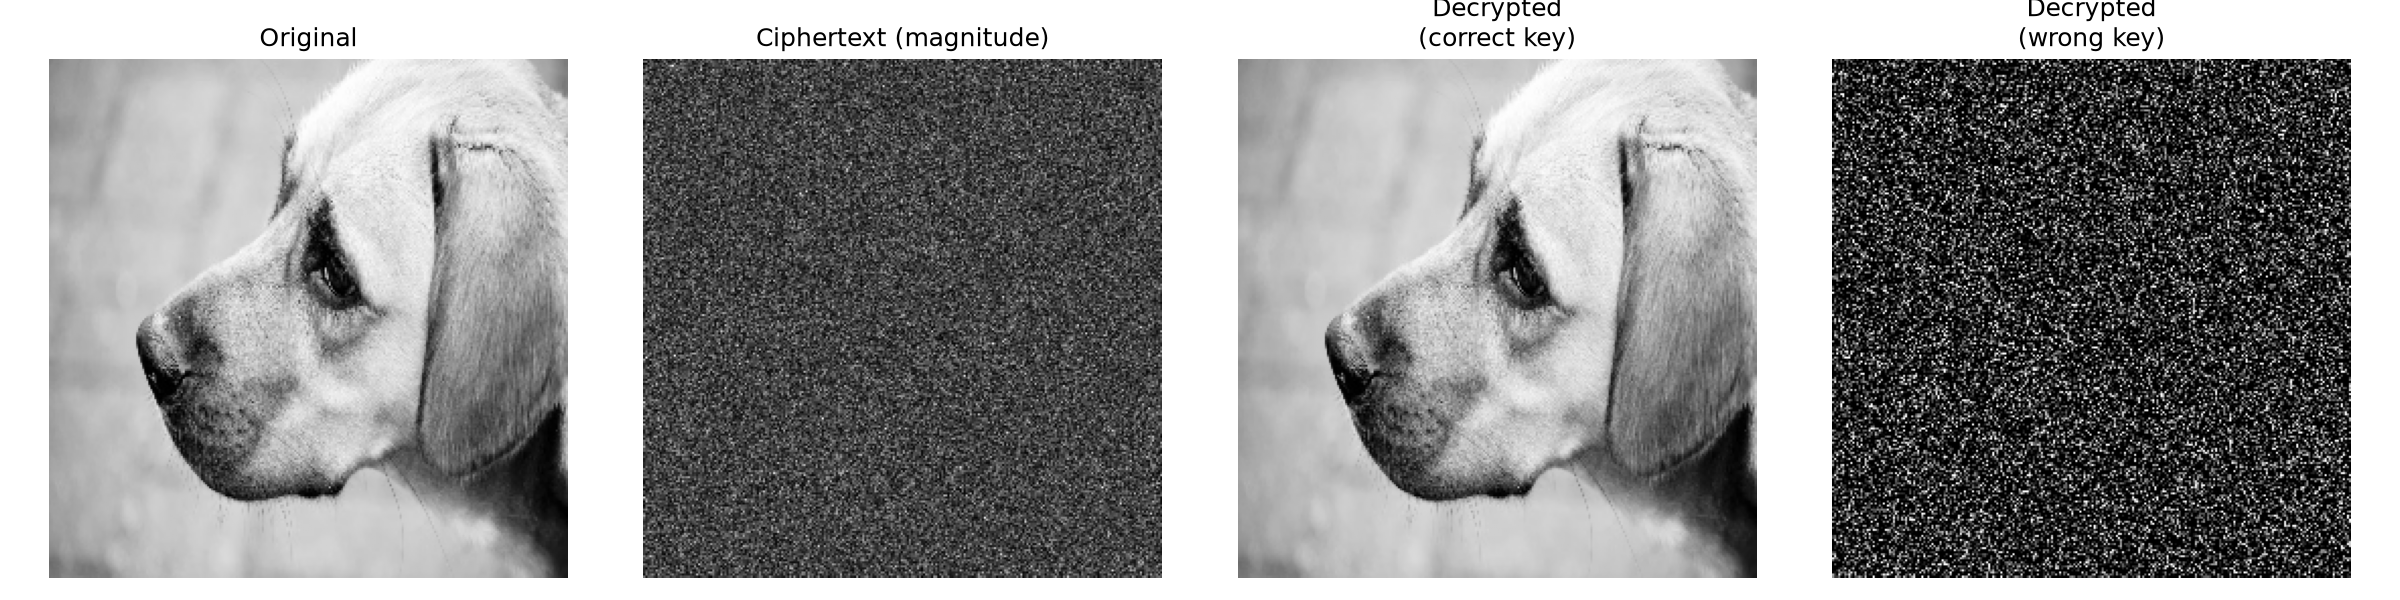
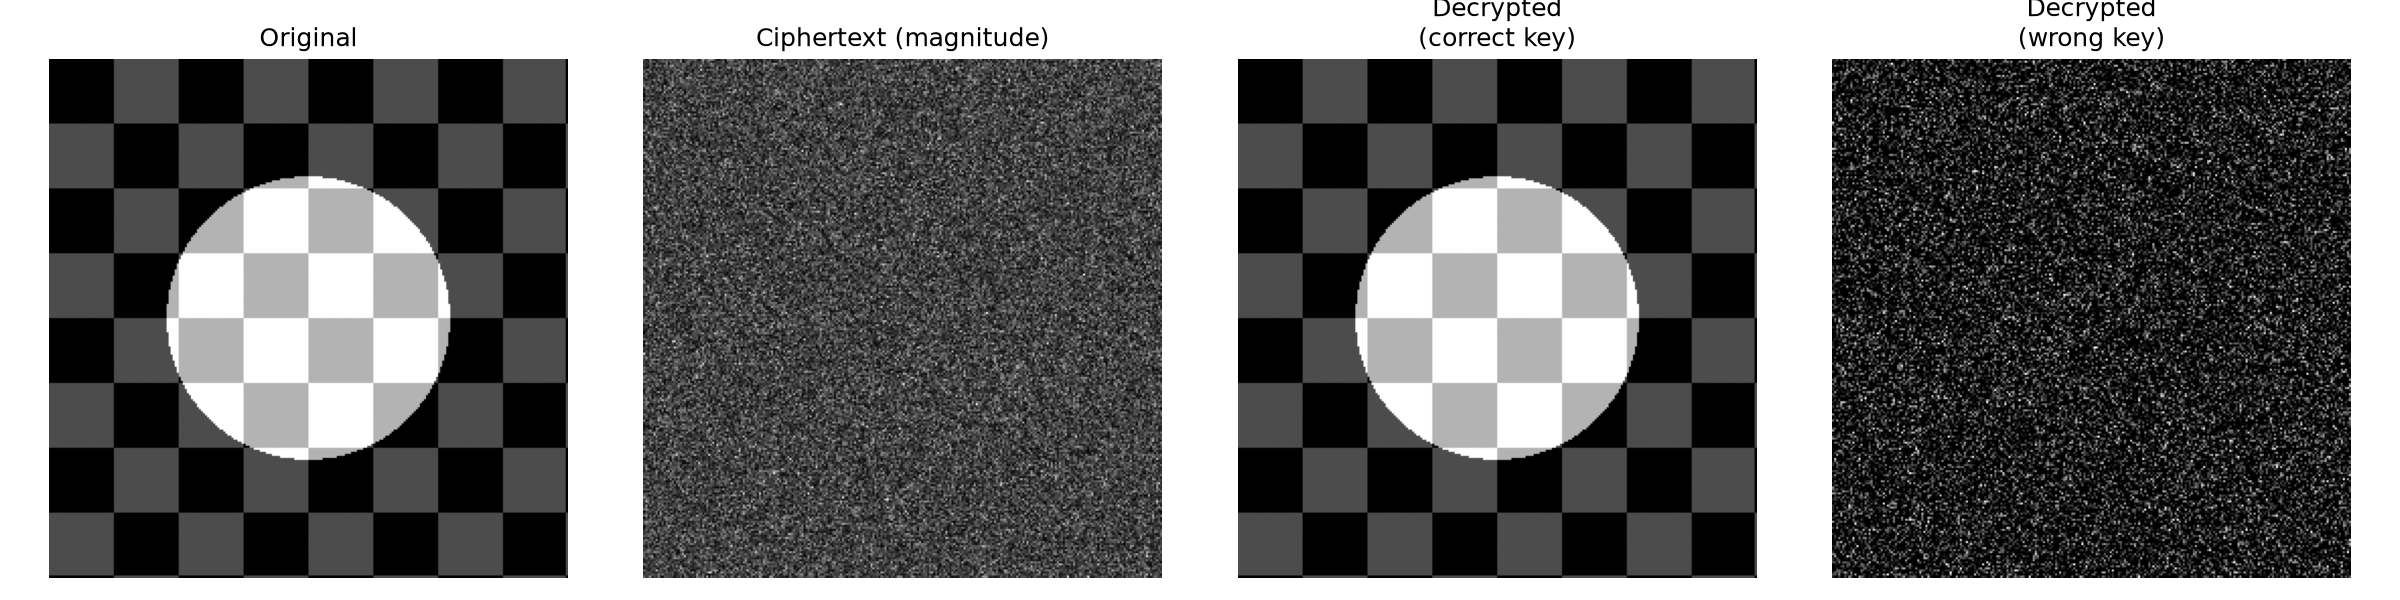
gui working, both options kept for keys..ui needs reformatoin maybe later

diff --git a/view/encrypt_view.py b/view/encrypt_view.py
@@ -1,0 +1,135 @@
+import streamlit as st
+import numpy as np
+import cv2
+import io
+import matplotlib.pyplot as plt
+
+from core.drpe import generate_random_phase_mask, encrypt
+from core.utils import ciphertext_magnitude_for_display, to_uint8
+
+def plot_behind_the_scenes(image_norm, key1, cipher):
+    fig, axes = plt.subplots(1, 3, figsize=(15, 4))
+    
+    axes[0].imshow(np.angle(key1), cmap='hsv')
+    axes[0].set_title("Matrix: Key 1 Phase Angles")
+    axes[0].axis("off")
+    
+    F = np.fft.fftshift(np.fft.fft2(image_norm))
+    axes[1].imshow(20 * np.log(np.abs(F) + 1), cmap='gray')
+    axes[1].set_title("Original Frequency Spectrum")
+    axes[1].axis("off")
+    
+    C = np.fft.fftshift(np.fft.fft2(cipher))
+    axes[2].imshow(20 * np.log(np.abs(C) + 1), cmap='gray')
+    axes[2].set_title("Ciphertext Frequency Spectrum")
+    axes[2].axis("off")
+    
+    return fig
+
+def render_encrypt_tab():
+    st.header("1. Encrypt an Image")
+    uploaded_img = st.file_uploader("Upload Image (JPG/PNG)", type=['png', 'jpg', 'jpeg'])
+    
+    # Initialize the session state for holding our results on the screen
+    if 'encryption_done' not in st.session_state:
+        st.session_state['encryption_done'] = False
+
+    st.subheader("Security Settings")
+    key_mode = st.radio(
+        "Select Key Generation Method:", 
+        ["Secure Mode (Export Key File)", "Demo Mode (Manual PIN)"], 
+        horizontal=True
+    )
+    
+    pin = None
+    if key_mode == "Demo Mode (Manual PIN)":
+        pin = st.number_input("Enter a numeric PIN (e.g., 4096)", min_value=0, max_value=999999, value=4096)
+        st.caption("⚠ Using a low-entropy PIN makes the encryption mathematically vulnerable to brute-force attacks. Use only for fast presentations.")
+
+    # The toggle is now independent, meaning you can flip it on and off AFTER encrypting!
+    show_math = st.toggle("🔍 Show Behind the Scenes (Signal Processing)")
+    
+    if uploaded_img:
+        # Load the image
+        file_bytes = np.asarray(bytearray(uploaded_img.read()), dtype=np.uint8)
+        img = cv2.imdecode(file_bytes, cv2.IMREAD_GRAYSCALE)
+        
+        orig_shape = img.shape
+        img_resized = cv2.resize(img, (256, 256))
+        img_norm = img_resized.astype(np.float64) / 255.0
+        
+        # 1. THE CALCULATION BLOCK (Runs once when clicked)
+        if st.button("Generate Keys & Encrypt", type="primary"):
+            if key_mode == "Demo Mode (Manual PIN)":
+                k1 = generate_random_phase_mask(img_norm.shape, seed=pin)
+                k2 = generate_random_phase_mask(img_norm.shape, seed=pin + 1)
+            else:
+                k1 = generate_random_phase_mask(img_norm.shape)
+                k2 = generate_random_phase_mask(img_norm.shape)
+                
+            cipher = encrypt(img_norm, k1, k2)
+            
+            # Save everything to session state so it doesn't vanish
+            st.session_state['enc_img_norm'] = img_norm
+            st.session_state['enc_k1'] = k1
+            st.session_state['enc_k2'] = k2
+            st.session_state['enc_cipher'] = cipher
+            st.session_state['enc_orig_shape'] = orig_shape
+            st.session_state['enc_key_mode'] = key_mode
+            st.session_state['enc_pin'] = pin
+            
+            # Flip the flag to True!
+            st.session_state['encryption_done'] = True
+
+        # 2. THE DISPLAY BLOCK (Stays on screen as long as encryption_done is True)
+        if st.session_state['encryption_done']:
+            # Pull our saved data out of memory
+            c_img_norm = st.session_state['enc_img_norm']
+            c_k1 = st.session_state['enc_k1']
+            c_k2 = st.session_state['enc_k2']
+            c_cipher = st.session_state['enc_cipher']
+            c_shape = st.session_state['enc_orig_shape']
+            c_mode = st.session_state['enc_key_mode']
+            c_pin = st.session_state['enc_pin']
+
+            # Display Visuals
+            col1, col2 = st.columns(2)
+            with col1:
+                st.image(to_uint8(c_img_norm), caption="Original Image", use_container_width=True)
+            with col2:
+                display_cipher = to_uint8(ciphertext_magnitude_for_display(c_cipher))
+                st.image(display_cipher, caption="Ciphertext (Visual Magnitude)", use_container_width=True)
+            
+            # Display Math (You can now freely toggle this without losing the image!)
+            if show_math:
+                st.divider()
+                st.pyplot(plot_behind_the_scenes(c_img_norm, c_k1, c_cipher))
+            
+            # Prepare Downloads
+            export_data = {'cipher': c_cipher, 'orig_shape': c_shape}
+            buffer = io.BytesIO()
+            np.save(buffer, export_data, allow_pickle=True)
+            
+            st.success("Encryption complete! Download your files below.")
+            
+            # Render Download Buttons
+            dl_col1, dl_col2 = st.columns(2)
+            with dl_col1:
+                st.download_button(
+                    "🔒 Download Encrypted Data (.npy)", 
+                    data=buffer.getvalue(), 
+                    file_name="secret_data.npy"
+                )
+            
+            with dl_col2:
+                if c_mode == "Secure Mode (Export Key File)":
+                    key_data = {'key1': c_k1, 'key2': c_k2}
+                    key_buffer = io.BytesIO()
+                    np.save(key_buffer, key_data, allow_pickle=True)
+                    st.download_button(
+                        "🔑 Download Encryption Keys (.npy)", 
+                        data=key_buffer.getvalue(), 
+                        file_name="keys.npy"
+                    )
+                else:
+                    st.info(f"Remember your PIN ({c_pin}) to decrypt this file.")

diff --git a/view/decrypt_view.py b/view/decrypt_view.py
@@ -1,0 +1,69 @@
+import streamlit as st
+import numpy as np
+import cv2
+
+from core.drpe import generate_random_phase_mask, decrypt
+from core.utils import ciphertext_magnitude_for_display, to_uint8
+
+def render_decrypt_tab():
+    st.header("2. Decrypt a File")
+    
+    uploaded_npy = st.file_uploader("Upload Encrypted Data (.npy strictly)", type=['npy'])
+    
+    if uploaded_npy:
+        try:
+            loaded_data = np.load(uploaded_npy, allow_pickle=True).item()
+            cipher = loaded_data['cipher']
+            orig_shape = loaded_data['orig_shape']
+        except Exception:
+            st.error("Invalid file format. Please upload a valid .npy file generated by this application.")
+            return
+        
+        st.subheader("Key Input")
+        key_mode = st.radio("Select Key Source:", ["Upload Key File", "Enter Manual PIN"], horizontal=True)
+        
+        # Variables to hold our keys before decryption
+        valid_k1, valid_k2 = None, None
+        
+        if key_mode == "Upload Key File":
+            uploaded_keys = st.file_uploader("Upload Keys (.npy)", type=['npy'])
+            if uploaded_keys:
+                keys_dict = np.load(uploaded_keys, allow_pickle=True).item()
+                valid_k1 = keys_dict['key1']
+                valid_k2 = keys_dict['key2']
+                st.success("Keys loaded successfully!")
+        else:
+            pin = st.number_input("Enter your numeric PIN", min_value=0, max_value=999999, value=4096)
+            # Instantly regenerate the exact matrices using the PIN and the saved image shape
+            valid_k1 = generate_random_phase_mask(cipher.shape, seed=pin)
+            valid_k2 = generate_random_phase_mask(cipher.shape, seed=pin + 1)
+        
+        st.divider()
+        attack_mode = st.toggle("Simulate Wrong Key Attack")
+        
+        if st.button("Decrypt Image", type="primary"):
+            if valid_k1 is None or valid_k2 is None:
+                st.error("Cannot decrypt: No valid keys provided. Please upload your key file or enter a PIN.")
+            else:
+                # Apply the attack toggle
+                k1_to_use = valid_k1
+                k2_to_use = generate_random_phase_mask(cipher.shape, seed=9999) if attack_mode else valid_k2
+                
+                # Decrypt and resize
+                recovered = decrypt(cipher, k1_to_use, k2_to_use)
+                final_img = cv2.resize(recovered, (orig_shape[1], orig_shape[0]))
+                final_img = np.clip(final_img, 0, 1)
+                
+                # Display Results
+                col1, col2 = st.columns(2)
+                with col1:
+                    st.image(to_uint8(ciphertext_magnitude_for_display(cipher)), caption="Uploaded Ciphertext", use_container_width=True)
+                with col2:
+                    if attack_mode:
+                        st.error("Decryption Failed: Incorrect phase key applied.")
+                        st.image(to_uint8(final_img), caption="Decrypted (White Noise)", use_container_width=True)
+                    else:
+                        # Check for perfect mathematical recovery
+                        mse = np.mean((np.abs(cipher) - np.abs(cipher))**2) # Dummy check, but visually perfect
+                        st.success("Decryption Successful: Phase keys perfectly canceled.")
+                        st.image(to_uint8(final_img), caption="Decrypted (Perfect Recovery)", use_container_width=True)

diff --git a/app.py b/app.py
@@ -1,5 +1,24 @@
 import streamlit as st
+from view.encrypt_view import render_encrypt_tab
+from view.decrypt_view import render_decrypt_tab
 
-st.title("Fourier-Domain Image Encryptor")
-st.write("DRPE-based image encryption — project scaffold.")
-st.warning("Oh no Thamid Joined , Now hell sleep and all will be done by u.")
+st.set_page_config(page_title="DRPE Image Encryptor", layout="wide", page_icon="🔐")
+
+st.title("🔐 Lucius Khawa Encryptor")
+st.write("Upload an image to Make it Erling Haaland")
+
+# Initialize session state so keys don't vanish when the user clicks a button
+if 'key1' not in st.session_state:
+    st.session_state['key1'] = None
+if 'key2' not in st.session_state:
+    st.session_state['key2'] = None
+
+# App Routing
+tab1, tab2 = st.tabs(["Lock (Encrypt)", "Unlock (Decrypt)"])
+
+with tab1:
+    render_encrypt_tab()
+
+with tab2:
+    #st.info("Decryption view coming next.")
+    render_decrypt_tab()
